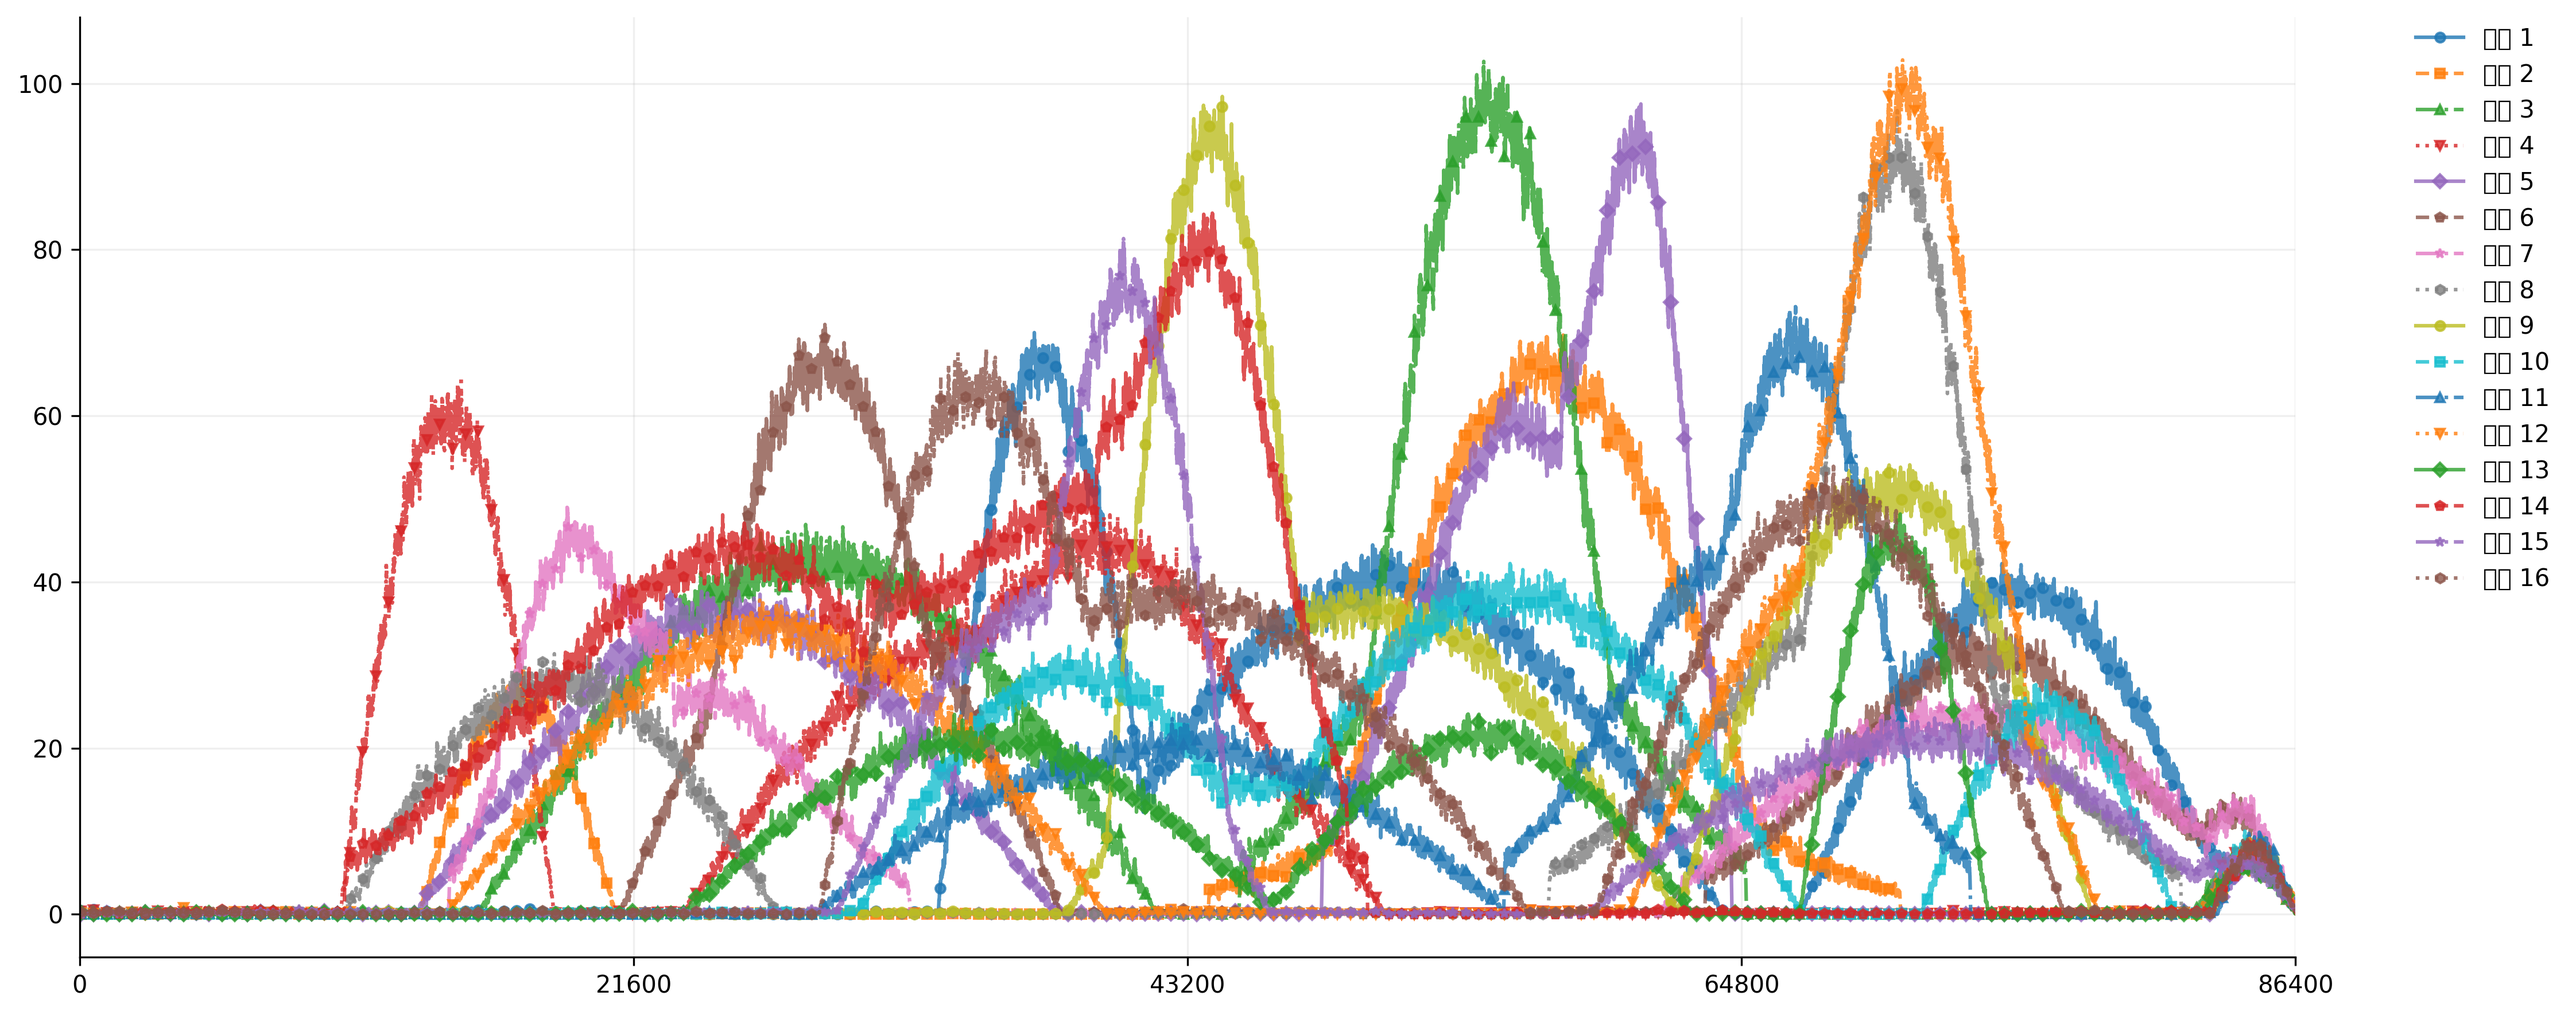
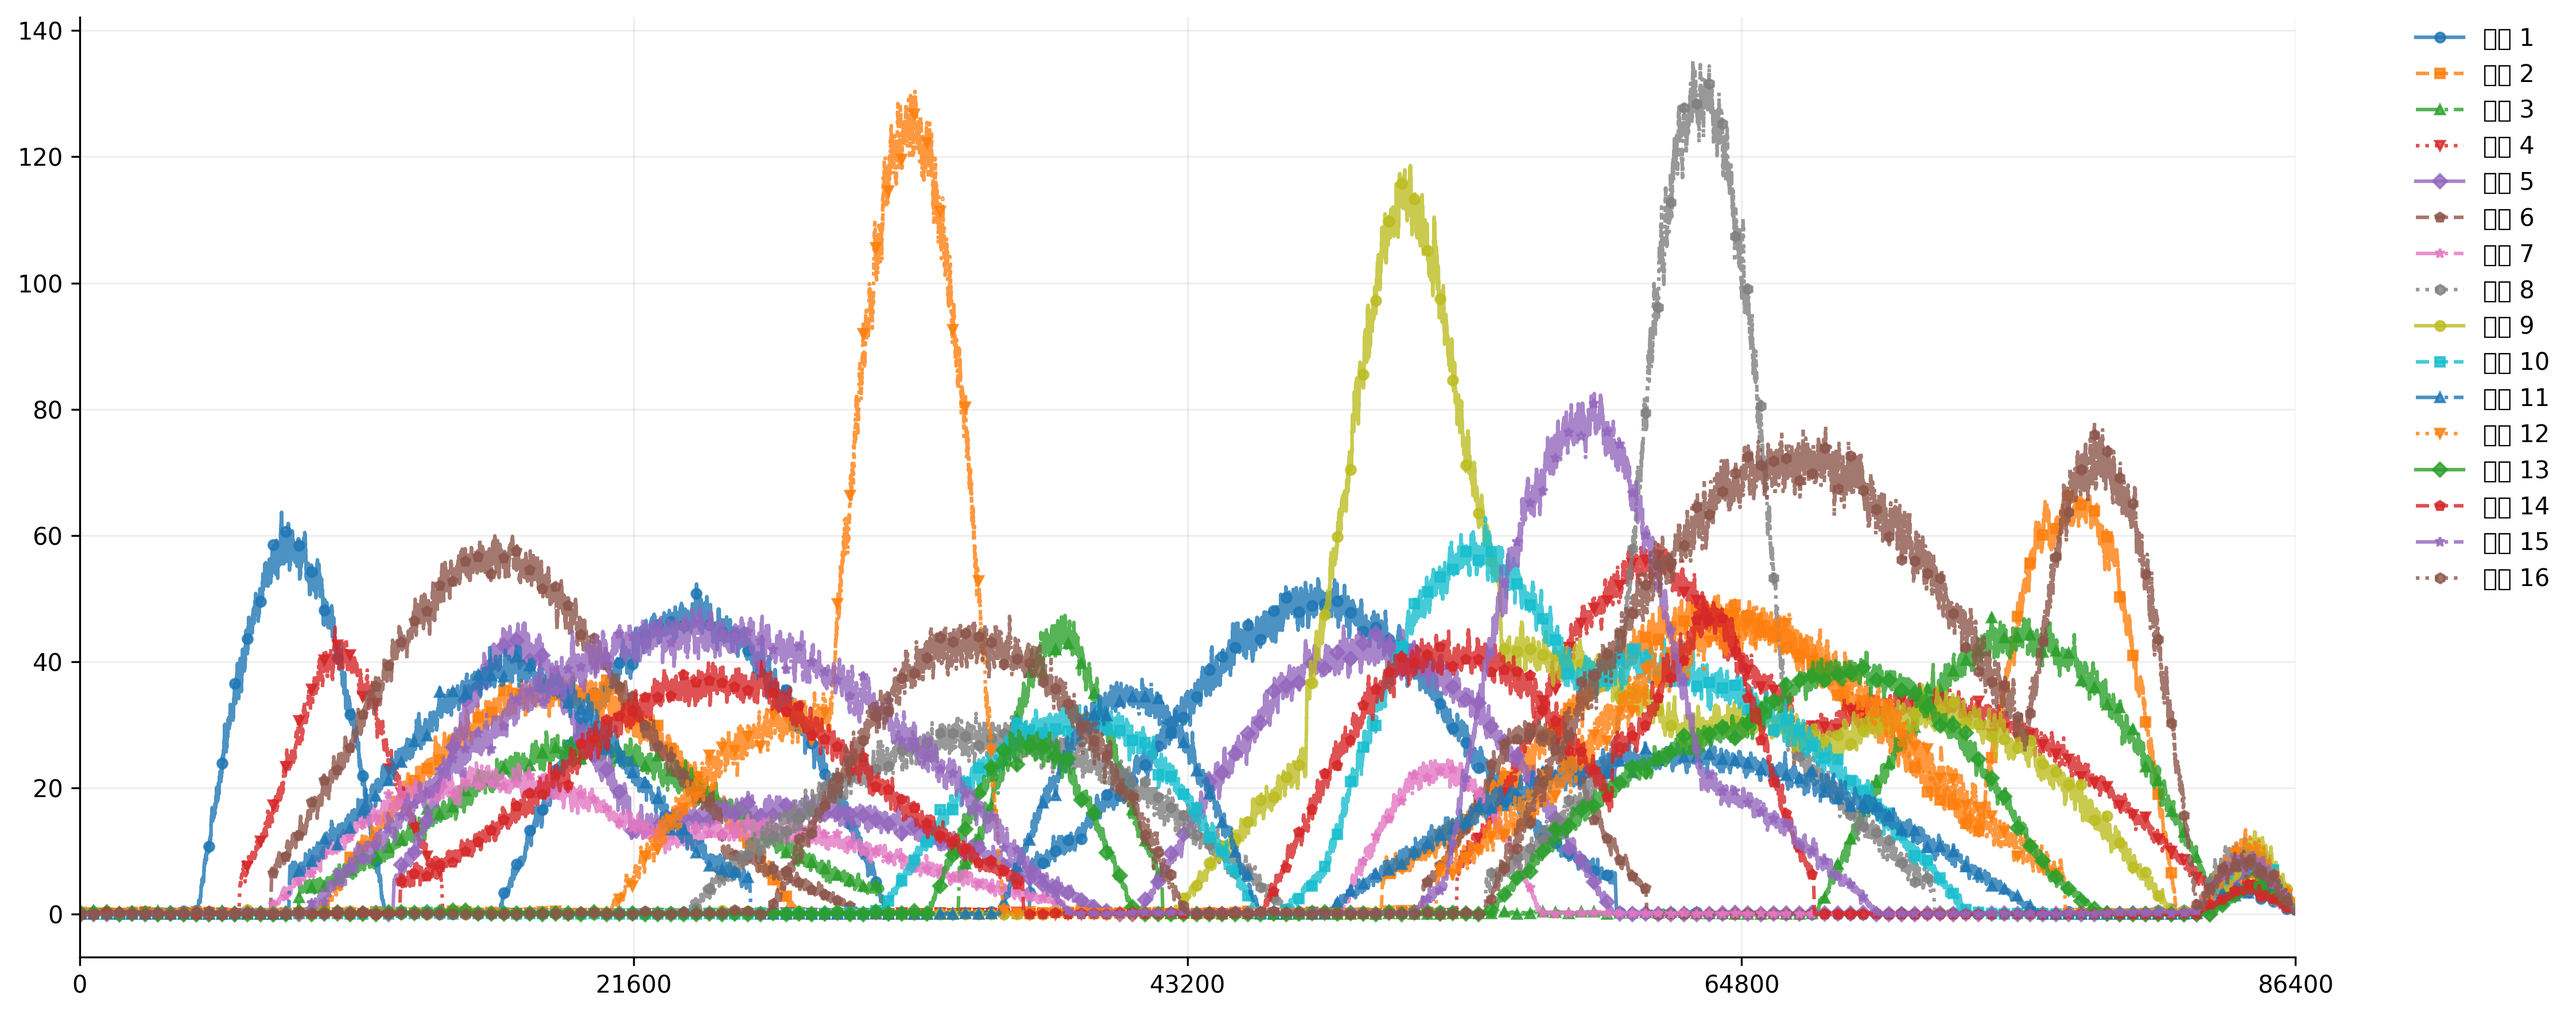
update official data

diff --git a/main.cpp b/main.cpp
@@ -44,15 +44,15 @@ const double DIVIDE_TAG_IN_DISK_VERSION1 = 0.1;
 int TEST_DENSITY_LEN = 1200;
 
 //这三个量需要调整   需要退火
-const int WRITE_TEST_DENSITY_LEN = 55;
-const int WRITE_TAG_DENSITY_DIVIDE = 34;
-const int MIN_TEST_TAG_DENSITY_LEN = 66;
-const double JUMP_MIN = 1.9;
-const int MIN_ROUND_TIME = 5;
-const int TEST_READ_TIME = 2;
-const int CUR_REQUEST_DIVIDE = 165;
-const int MIN_TEST_DENSITY_LEN = 922;
-const int JUMP_MORE_TIME = 3;
+const int WRITE_TEST_DENSITY_LEN = 32;
+const int WRITE_TAG_DENSITY_DIVIDE = 29;
+const int MIN_TEST_TAG_DENSITY_LEN = 67;
+const double JUMP_MIN = 2.4;
+const int MIN_ROUND_TIME = 2;
+const int TEST_READ_TIME = 3;
+const int CUR_REQUEST_DIVIDE = 344;
+const int MIN_TEST_DENSITY_LEN = 370;
+const int JUMP_MORE_TIME = 0;
 
 
 

diff --git a/generateImage.py b/generateImage.py
@@ -348,7 +348,7 @@ def plot_tag_read_density(T, M, tag_reads, tag_exist_size):
     plt.close()
 
 def main():
-    filename = 'data/sample_practice.in'
+    filename = 'data/sample_offical.in'
     T, M, tag_reads, tag_size, tag_exsit_time, tag_exist_size = read_input_file(filename)
     plot_tag_reads_request_count(T, M, tag_reads)
     plot_tag_reads_request_size(T, M, tag_size)
